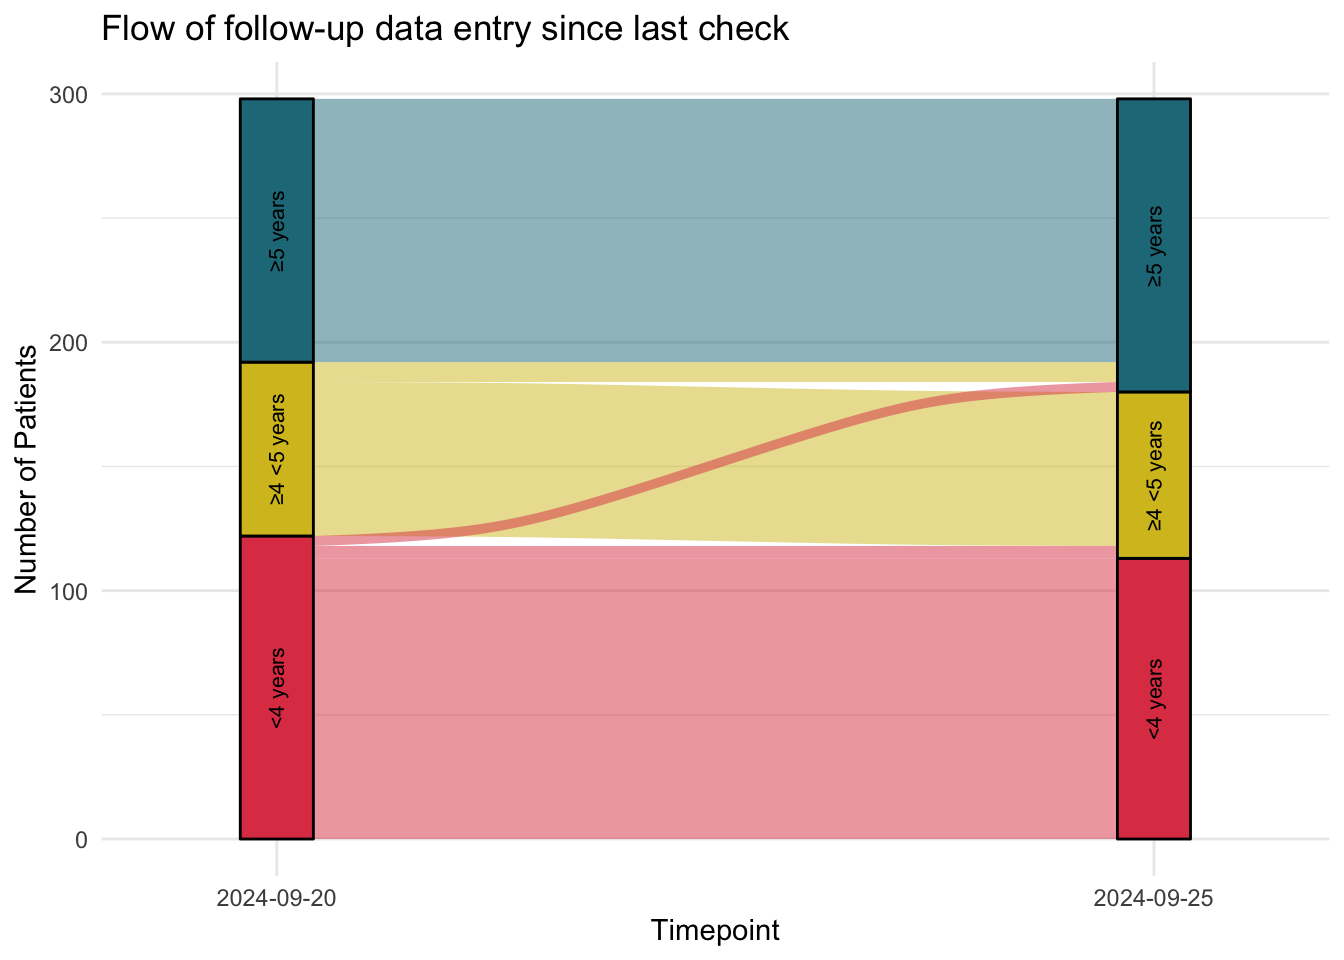
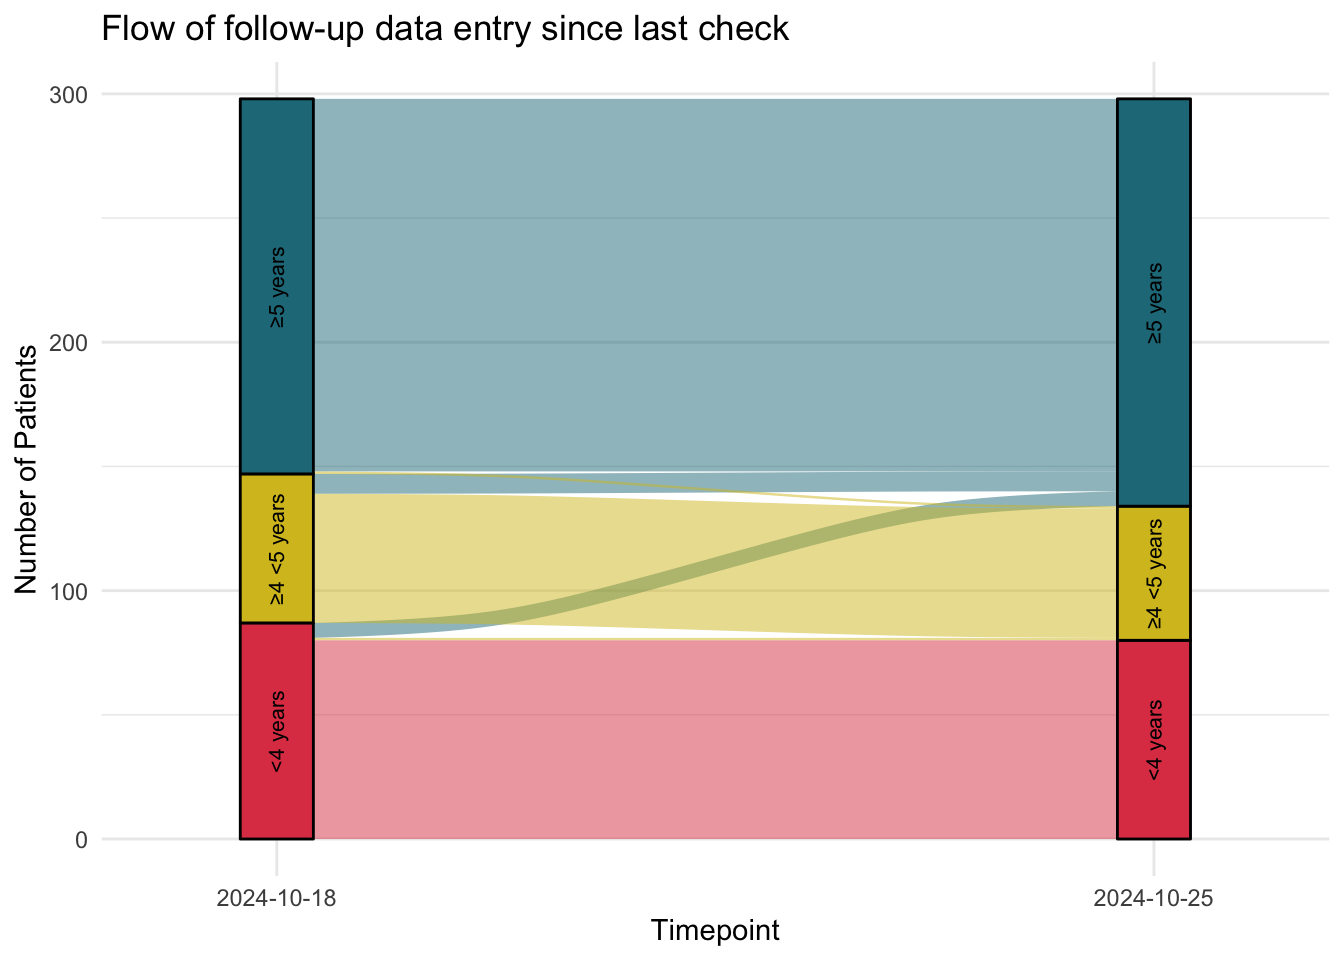
Build site.

diff --git a/docs/WP5_5y_fu_tracker.html b/docs/WP5_5y_fu_tracker.html
@@ -11,11 +11,11 @@
 
 <meta name="author" content="Daniel Alcala" />
 
-<meta name="date" content="2024-09-25" />
+<meta name="date" content="2024-10-27" />
 
 <title>PHERGain | Tracker of 5-year follow-up data. September 2024</title>
 
-<script src="site_libs/header-attrs-2.27/header-attrs.js"></script>
+<script src="site_libs/header-attrs-2.28/header-attrs.js"></script>
 <script src="site_libs/jquery-3.6.0/jquery-3.6.0.min.js"></script>
 <meta name="viewport" content="width=device-width, initial-scale=1" />
 <link href="site_libs/bootstrap-3.3.5/css/cosmo.min.css" rel="stylesheet" />
@@ -354,7 +354,7 @@ div.tocify {
 <h1 class="title toc-ignore">PHERGain | Tracker of 5-year follow-up
 data. September 2024</h1>
 <h4 class="author">Daniel Alcala</h4>
-<h4 class="date">2024-09-25</h4>
+<h4 class="date">2024-10-27</h4>
 
 </div>
 
@@ -383,7 +383,7 @@ class="glyphicon glyphicon-ok text-success" aria-hidden="true"></span>
 <div class="tab-content">
 <div id="summary" class="tab-pane fade in active">
 <p>
-<strong>Last updated:</strong> 2024-09-25
+<strong>Last updated:</strong> 2024-10-27
 </p>
 <p>
 <strong>Checks:</strong> <span
@@ -514,15 +514,15 @@ project makes it easier to run your code on other machines.</p>
 <div class="panel panel-default">
 <div class="panel-heading">
 <p class="panel-title">
-<a data-toggle="collapse" data-parent="#workflowr-checks" href="#strongRepositoryversionstrongahrefhttpsgithubcomMedsirScientificPHERGaintree584188449fbde45c0d3c75be43ae3cdff4857cf1targetblank5841884a">
+<a data-toggle="collapse" data-parent="#workflowr-checks" href="#strongRepositoryversionstrongahrefhttpsgithubcomMedsirScientificPHERGaintree32f265b7c98754fdba8c3cf2d386006f66551134targetblank32f265ba">
 <span class="glyphicon glyphicon-ok text-success"
 aria-hidden="true"></span> <strong>Repository version:</strong>
-<a href="https://github.com/MedsirScientific/PHERGain/tree/584188449fbde45c0d3c75be43ae3cdff4857cf1" target="_blank">5841884</a>
+<a href="https://github.com/MedsirScientific/PHERGain/tree/32f265b7c98754fdba8c3cf2d386006f66551134" target="_blank">32f265b</a>
 </a>
 </p>
 </div>
 <div
[2 lines of base64/hex data omitted]
 class="panel-collapse collapse">
 <div class="panel-body">
 <p>
@@ -532,7 +532,7 @@ reproducibility.
 </p>
 <p>
 The results in this page were generated with repository version
-<a href="https://github.com/MedsirScientific/PHERGain/tree/584188449fbde45c0d3c75be43ae3cdff4857cf1" target="_blank">5841884</a>.
+<a href="https://github.com/MedsirScientific/PHERGain/tree/32f265b7c98754fdba8c3cf2d386006f66551134" target="_blank">32f265b</a>.
 See the <em>Past versions</em> tab to see a history of the changes made
 to the R Markdown and HTML files.
 </p>
@@ -558,11 +558,20 @@ Ignored files:
     Ignored:    data/2024-09-18/
     Ignored:    data/2024-09-19/
     Ignored:    data/2024-09-25/
+    Ignored:    data/2024-09-30/
+    Ignored:    data/2024-10-03/
+    Ignored:    data/2024-10-08/
+    Ignored:    data/2024-10-14/
+    Ignored:    data/2024-10-18/
+    Ignored:    data/2024-10-23/
+    Ignored:    data/2024-10-25/
     Ignored:    data/MEDOPP096 Global Status 2023.xlsx
     Ignored:    data/MedOPP096 PHERGain 3-Year Listings Draft 2023-05-12.xlsx
     Ignored:    data/PHERGain_HER2DX.xlsx
+    Ignored:    data/PHERGain_HRQoL_2024-10-02.xlsx
     Ignored:    data/PHERGain_data-management_2023-04-24.xlsx
     Ignored:    data/PHERGain_sample-IDs_2024-09-04.xlsx
+    Ignored:    data/PHERGain_siteID.xlsx
     Ignored:    output/.DS_Store
 
 Untracked files:
@@ -632,6 +641,40 @@ Message
 </tr>
 </thead>
 <tbody>
+<tr>
+<td>
+Rmd
+</td>
+<td>
+<a href="https://github.com/MedsirScientific/PHERGain/blob/32f265b7c98754fdba8c3cf2d386006f66551134/analysis/WP5_5y_fu_tracker.Rmd" target="_blank">32f265b</a>
+</td>
+<td>
+Daniel Alcalá
+</td>
+<td>
+2024-10-27
+</td>
+<td>
+Update WP5 to 2024-10-25
+</td>
+</tr>
+<tr>
+<td>
+html
+</td>
+<td>
+<a href="https://rawcdn.githack.com/MedsirScientific/PHERGain/30964ce0989ae301242521c85a04117d2a0497a0/docs/WP5_5y_fu_tracker.html" target="_blank">30964ce</a>
+</td>
+<td>
+Daniel Alcalá
+</td>
+<td>
+2024-09-25
+</td>
+<td>
+Build site.
+</td>
+</tr>
 <tr>
 <td>
 Rmd
@@ -760,21 +803,21 @@ Update WP5 to ensure it reads out the manual tracker Trial provides
 </div>
 </div>
 <pre><code>[1] &quot;/Users/daniel.alcala/PHERGain/WP5_5y_fu_tracker.Rmd&quot;</code></pre>
-<p>The data cutoff date for these analyses is: 2024-09-25</p>
+<p>The data cutoff date for these analyses is: 2024-10-25</p>
 <pre><code># A tibble: 3 × 2
-  `Data at 2024-09-25`     n
+  `Data at 2024-10-25`     n
   &lt;chr&gt;                &lt;int&gt;
-1 &lt;4 years               113
-2 ≥4 &lt;5 years             67
-3 ≥5 years               118</code></pre>
+1 &lt;4 years                80
+2 ≥4 &lt;5 years             54
+3 ≥5 years               164</code></pre>
 <!-- Under development -->
 <!-- Under development -->
 <pre><code># A tibble: 3 × 2
-  `Data at 2024-09-20`     n
-  &lt;chr&gt;                &lt;int&gt;
-1 &lt;4 years               122
-2 ≥4 &lt;5 years             70
-3 ≥5 years               106</code></pre>
+  `Data at 2024-10-18 (prior)`     n
+  &lt;chr&gt;                        &lt;int&gt;
+1 &lt;4 years                        87
+2 ≥4 &lt;5 years                     60
+3 ≥5 years                       151</code></pre>
 <p><img src="figure/WP5_5y_fu_tracker.Rmd/sankey-1.png" width="672" style="display: block; margin: auto;" /></p>
 <p>
 <button type="button" class="btn btn-default btn-xs btn-workflowr btn-workflowr-fig" data-toggle="collapse" data-target="#fig-sankey-1">
@@ -824,7 +867,7 @@ Session information
 <pre class="r"><code>sessionInfo()</code></pre>
 <pre><code>R version 4.3.2 (2023-10-31)
 Platform: aarch64-apple-darwin20 (64-bit)
-Running under: macOS 15.0
+Running under: macOS 15.0.1
 
 Matrix products: default
 BLAS:   /Library/Frameworks/R.framework/Versions/4.3-arm64/Resources/lib/libRblas.0.dylib 
@@ -847,34 +890,34 @@ other attached packages:
 [13] here_1.0.1        janitor_2.2.0     writexl_1.4.2     readxl_1.4.3     
 [17] lubridate_1.9.3   forcats_1.0.0     stringr_1.5.1     dplyr_1.1.4      
 [21] purrr_1.0.2       readr_2.1.5       tidyr_1.3.1       tibble_3.2.1     
-[25] ggplot2_3.4.4     tidyverse_2.0.0   workflowr_1.7.1  
+[25] ggplot2_3.5.1     tidyverse_2.0.0   workflowr_1.7.1  
 
 loaded via a namespace (and not attached):
  [1] tidyselect_1.2.0     farver_2.1.2         fastmap_1.2.0       
- [4] promises_1.2.1       broom.helpers_1.14.0 digest_0.6.35       
+ [4] promises_1.2.1       broom.helpers_1.14.0 digest_0.6.37       
  [7] timechange_0.3.0     lifecycle_1.0.4      processx_3.8.4      
 [10] magrittr_2.0.3       compiler_4.3.2       rlang_1.1.4         
 [13] sass_0.4.9           tools_4.3.2          utf8_1.2.4          
-[16] yaml_2.3.8           data.table_1.15.0    knitr_1.47          
+[16] yaml_2.3.10          data.table_1.16.0    knitr_1.48          
 [19] ggsignif_0.6.4       labeling_0.4.3       xml2_1.3.6          
 [22] abind_1.4-5          withr_3.0.0          fansi_1.0.6         
-[25] git2r_0.33.0         xtable_1.8-4         colorspace_2.1-0    
-[28] scales_1.3.0         cli_3.6.2            rmarkdown_2.27      
-[31] ragg_1.2.7           generics_0.1.3       rstudioapi_0.16.0   
+[25] git2r_0.33.0         xtable_1.8-4         colorspace_2.1-1    
+[28] scales_1.3.0         cli_3.6.3            rmarkdown_2.28      
+[31] ragg_1.2.7           generics_0.1.3       rstudioapi_0.17.1   
 [34] km.ci_0.5-6          httr_1.4.7           tzdb_0.4.0          
 [37] cachem_1.1.0         splines_4.3.2        cellranger_1.1.0    
 [40] survMisc_0.5.6       vctrs_0.6.5          Matrix_1.6-1.1      
-[43] jsonlite_1.8.8       carData_3.0-5        car_3.1-2           
+[43] jsonlite_1.8.9       carData_3.0-5        car_3.1-2           
 [46] callr_3.7.6          hms_1.1.3            rstatix_0.7.2       
-[49] systemfonts_1.1.0    jquerylib_0.1.4      glue_1.7.0          
-[52] ps_1.7.6             stringi_1.8.4        gtable_0.3.4        
+[49] systemfonts_1.1.0    jquerylib_0.1.4      glue_1.8.0          
+[52] ps_1.8.0             stringi_1.8.4        gtable_0.3.4        
 [55] later_1.3.2          munsell_0.5.1        pillar_1.9.0        
 [58] htmltools_0.5.8.1    R6_2.5.1             KMsurv_0.1-5        
-[61] textshaping_0.3.7    rprojroot_2.0.4      evaluate_0.24.0     
+[61] textshaping_0.3.7    rprojroot_2.0.4      evaluate_1.0.1      
 [64] lattice_0.21-9       highr_0.11           haven_2.5.4         
 [67] backports_1.4.1      snakecase_0.11.1     httpuv_1.6.14       
-[70] bslib_0.7.0          Rcpp_1.0.12          gridExtra_2.3       
-[73] whisker_0.4.1        xfun_0.44            zoo_1.8-12          
+[70] bslib_0.8.0          Rcpp_1.0.12          gridExtra_2.3       
+[73] whisker_0.4.1        xfun_0.48            zoo_1.8-12          
 [76] fs_1.6.4             getPass_0.2-4        pkgconfig_2.0.3     </code></pre>
 </div>
 

diff --git a/docs/site_libs/header-attrs-2.28/header-attrs.js b/docs/site_libs/header-attrs-2.28/header-attrs.js
@@ -1,0 +1,12 @@
+// Pandoc 2.9 adds attributes on both header and div. We remove the former (to
+// be compatible with the behavior of Pandoc < 2.8).
+document.addEventListener('DOMContentLoaded', function(e) {
+  var hs = document.querySelectorAll("div.section[class*='level'] > :first-child");
+  var i, h, a;
+  for (i = 0; i < hs.length; i++) {
+    h = hs[i];
+    if (!/^h[1-6]$/i.test(h.tagName)) continue;  // it should be a header h1-h6
+    a = h.attributes;
+    while (a.length > 0) h.removeAttribute(a[0].name);
+  }
+});
